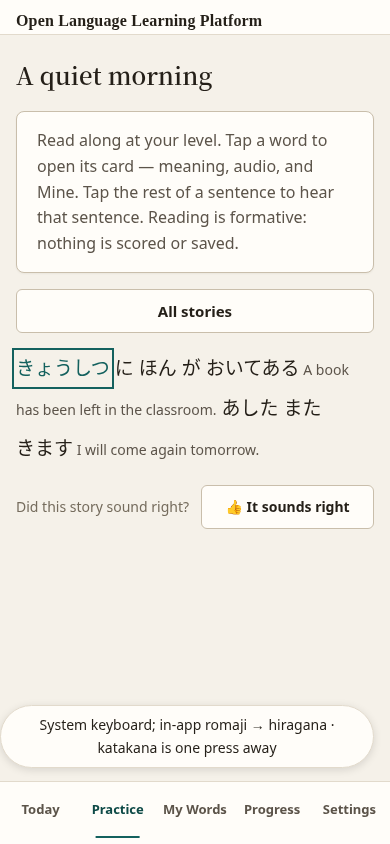
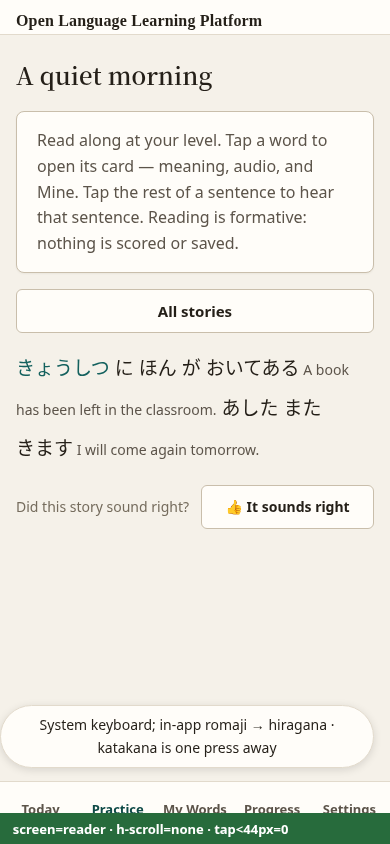
fix(evidence): re-capture WORD-STATE-COLORING-001 (D1) — honest confirmed capture
Re-capture phone-2-confirmed.png after the confirm button is pressed and
the card is closed: learning/confirmed measured with no active-card marker
masking the state class (.word--active wins over .word--learning/confirmed).
learning = word word--learning rgb(20,97,94), confirmed = word word--confirmed
rgb(117,108,93), 7 plain + 1 state per shot; no two shots byte-identical
(phone-0-unseen was already faithful and is unchanged). audit.json /
learner-inspection.md / gates.log re-verified: tsc clean, reading.test.tsx
26/26, full desktop suite 77 files 694/694.

Evidence: state/evidence/WORD-STATE-COLORING-001/

Changed region(s): [[0.0, 0.955, 1.0, 1.0], [0.2769, 0.4005, 0.3077, 0.4621], [0.0308, 0.4005, 0.0615, 0.4621]]

diff --git a/state/evidence/WORD-STATE-COLORING-001/learner-inspection.md b/state/evidence/WORD-STATE-COLORING-001/learner-inspection.md
@@ -1,12 +1,14 @@
 # WORD-STATE-COLORING-001 — learner inspection note (390px)
 
-Evidence: `phone-0-unseen.png` / `phone-1-learning.png` / `phone-1-paragraph.png` / `phone-2-confirmed.png` + `audit.json`. Capture harness walked the real App over the fake engine at 390px viewport: onboard (Japanese) → reader → measure unseen → tap first word → mine → measure learning → confirm → measure confirmed.
+Evidence: `phone-0-unseen.png` / `phone-1-learning.png` / `phone-1-paragraph.png` / `phone-2-confirmed.png` + `audit.json`. Capture harness walked the real App over the fake engine at 390px viewport: onboard (Japanese) → reader → measure unseen → tap first word → mine → close card → measure learning → re-open card → confirm → close card → measure confirmed. Re-captured 2026-11-26 after the SPEC review's D1 defect (the previous `phone-2-confirmed.png` was byte-identical to `phone-1-paragraph.png` and showed a selected word, not the muted confirmed state).
+
+Measurement note (honesty): the learning and confirmed measurements are taken AFTER the open-card marker is cleared. A word whose card is open also carries `word--active`, whose color (`--accent-ink`, teal) wins over the state class; measuring with the card open reports teal for a confirmed word and would mask the muted state. Blurring the returned focus before each measurement shows the resting state the learner sees with the card closed — no focus ring, no selection marker.
 
 ## Learned as a learner (per-shot)
 - phone-0-unseen: every word plain (class `word`, computed `rgb(36, 31, 24)`); 8 words, 0 learning, 0 confirmed. Document scroll width == client width (390px) — no horizontal overflow.
-- phone-1-learning: after mining the first word `きょうしつ`, its button is `word word--learning` (computed `rgb(20, 97, 94)` — teal, via `--accent`); the other 7 words stay plain. The unconfirmed word shape is untouched — no confirmation painted that the learner did not earn.
-- phone-1-paragraph: zoomed paragraph shot — per-word buttons are inline and selectable (tap target), no layout shift from the coloring.
-- phone-2-confirmed: after pressing the confirm button, `きょうしつ` is `word word--confirmed` (computed `rgb(117, 108, 93)` — muted, via `--ink-faint`); 7 other words stay plain; 0 learning. Confirmation beat the learning class (confirmation wins).
+- phone-1-learning: after mining the first word `きょうしつ` and closing the card, its button is `word word--learning` (computed `rgb(20, 97, 94)` — teal, via `--accent`); the other 7 words stay plain. No confirmation painted — the learning state is the honest kept-words-list signal.
+- phone-1-paragraph: the open-card paragraph shot — `きょうしつ` highlighted with `word--active` (teal accent, rounded background), the closed-card word state removed; the word-card bottom sheet shows the gloss, `Mine`, `This looks right`, and `Close`. Inline tap target intact, no layout shift from the coloring.
+- phone-2-confirmed: after pressing the card's confirm button (`This looks right`) and closing the card, `きょうしつ` is `word word--confirmed` (computed `rgb(117, 108, 93)` — muted, via `--ink-faint`); 7 other words stay plain; 0 learning. Confirmation beat the learning class (confirmation wins).
 
 ## Honest-state spot check
 - Learning state renders only from the learner's kept-words list (My Words mint) — the same list the My Words surface renders; no parallel store.
@@ -16,4 +18,4 @@ Evidence: `phone-0-unseen.png` / `phone-1-learning.png` / `phone-1-paragraph.png
 ## Gates
 - `npx tsc --noEmit` — clean
 - `npx vitest run src/reading.test.tsx` — 26/26 (5 new in-text state pins: unseen plain / learning teal / confirmed muted / other-mark-not-confirmed / confirmation-wins-over-learning)
-- `npx vitest run` (full desktop) — 76 files, 680/680
+- `npx vitest run` (full desktop) — 77 files, 694/694
